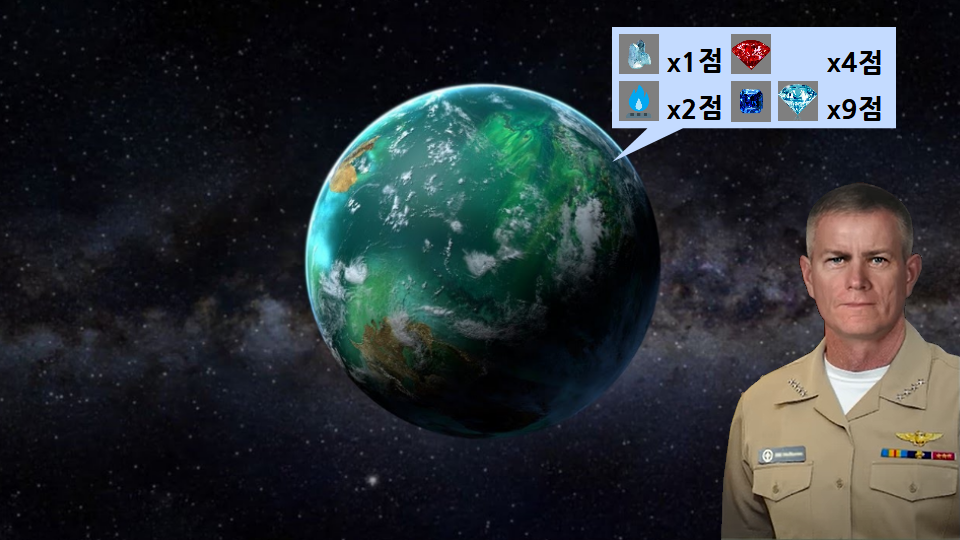
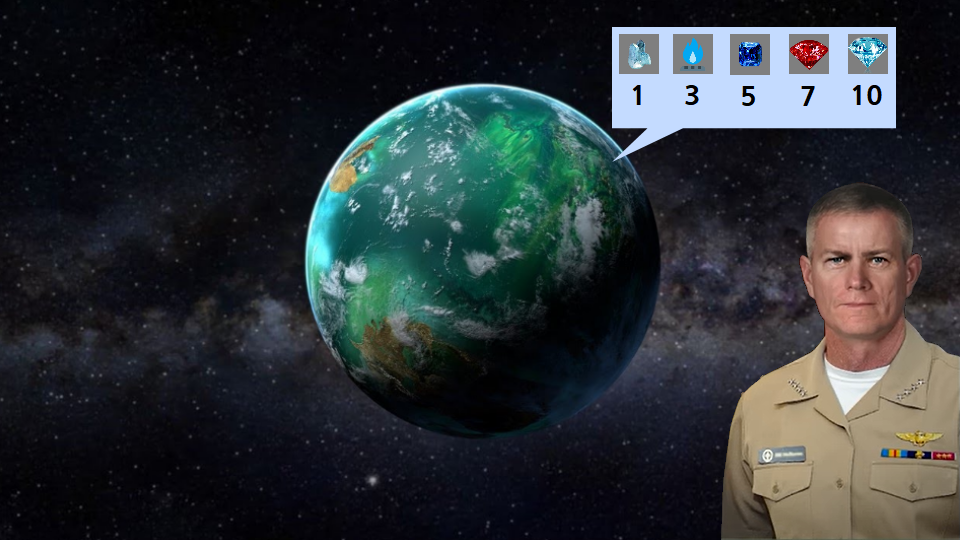
난이도별 승리 조건 추가, 게임 진행 방식 변경, 튜토리얼 스킵 추가

Changed region(s): [[0.625, 0.0593, 0.9375, 0.237]]

diff --git a/tutorial.js b/tutorial.js
@@ -16,11 +16,11 @@ $("#btn").click(function() {
         $("#text").append(tmp);
         $(".btn2").click(function() {
             if(difficulty == 1)
-            location.href="level1.html"
+            location.href="level1.html?level_info=1"
             else if(difficulty == 2)
-            location.href="level2.html"
+            location.href="level2.html?level_info=2"
             else
-            location.href="level3.html"
+            location.href="level3.html?level_info=3"
         });
         $("#btn").css("left","380px")
         $("#btn").text("필요합니다!")
@@ -55,22 +55,22 @@ $("#btn").click(function() {
         $("img").attr("src", "tutorial/960x540image6.png");
 
         if(difficulty == 1)
-            $("#textp").html("<br>목표는 자원수집이네. 20점을 넘기게! 점수는 자원 획득으로 얻을 수 있고 각 자원별로 점수가 다르다는 것을 참고하게!<br>")
+            $("#textp").html("<br>목표는 자원수집이네. 50점을 넘기게! 점수는 자원 획득으로 얻을 수 있고 각 자원별로 점수가 다르다는 것을 참고하게!<br>")
         else if(difficulty == 2)
-        $("#textp").html("<br>목표는 자원수집이네. 50점을 넘기게! 점수는 자원 획득으로 얻을 수 있고 각 자원별로 점수가 다르다는 것을 참고하게!<br>")
-        else
         $("#textp").html("<br>목표는 자원수집이네. 100점을 넘기게! 점수는 자원 획득으로 얻을 수 있고 각 자원별로 점수가 다르다는 것을 참고하게!<br>")
+        else
+        $("#textp").html("<br>목표는 자원수집이네. 200점을 넘기게! 점수는 자원 획득으로 얻을 수 있고 각 자원별로 점수가 다르다는 것을 참고하게!<br>")
            
         $("#buttonp").html("알겠습니다!")
     }
     else
     {
         if(difficulty == 1)
-        location.href="level1.html"
+        location.href="level1.html?level_info=1"
         else if(difficulty == 2)
-        location.href="level2.html"
+        location.href="level2.html?level_info=2"
         else
-        location.href="level3.html"
+        location.href="level3.html?level_info=3"
     }
 index = index + 1
 });

diff --git a/end.js b/end.js
@@ -11,17 +11,10 @@ if (localStorage.getItem('life') === '0') {
 
 /* game ver.commit 1.js에서 score를 받아서 print하는 함수*/
 
-let score1 = 0;
-let score2 = 0;
-let score3 = 0;
-if (localStorage.getItem('score1') != null) {
-  score1 = localStorage.getItem('score1');
+
+if (localStorage.getItem('score') != null) {
+  score = localStorage.getItem('score');
 }
-if (localStorage.getItem('score2') != null) {
-  score2 = localStorage.getItem('score2');
-}
-if (localStorage.getItem('score3') != null) {
-  score3 = localStorage.getItem('score3');
-}
-let total = parseInt(score1) + parseInt(score2) + parseInt(score3);
+
+let total = parseInt(score);
 $("#score").text(total);

diff --git a/start.js b/start.js
@@ -57,12 +57,15 @@ $(function(){
 
     $("#easy > a").on("click",function() {
         localStorage.setItem('difficulty',1);
+        localStorage.setItem('score',0)
     })
     $("#normal > a").on("click",function() {
         localStorage.setItem('difficulty',2);
+        localStorage.setItem('score',0)
     })
     $("#hard > a").on("click",function() {
         localStorage.setItem('difficulty',3);
+        localStorage.setItem('score',0)
     })
     $("body").css("background-image",background_IMg);
     $("#beforeStart").css("background-image",background_IMg);

diff --git a/level1.html b/level1.html
@@ -6,9 +6,6 @@
   <link rel="stylesheet" href="galaxy.css">
   <style> canvas { background: #0F0F0F; display: block; margin: 0 auto;} </style>
   <script src="https://code.jquery.com/jquery-3.6.0.min.js"></script>
-  
-
-
 </head>
 <body>
   <canvas id="myCanvas" width="600" height="500"></canvas>
@@ -94,7 +91,6 @@
   
   <div id="info-setting">
     esc키를 누르면 설정창이 열립니다.
-    <button id="next_stage" onclick="Neexxtt();">다음단계</button>
   </div>
   <!-------------------------------------------------->
 </body>

diff --git a/level2.html b/level2.html
@@ -91,7 +91,6 @@
   
   <div id="info-setting">
     esc키를 누르면 설정창이 열립니다.
-    <button id="next_stage" onclick="Neexxtt();">다음단계</button>
   </div>
   <!-------------------------------------------------->
 </body>

diff --git a/level3.html b/level3.html
@@ -91,7 +91,6 @@
   
   <div id="info-setting">
     esc키를 누르면 설정창이 열립니다.
-    <button id="next_stage" onclick="Neexxtt();">다음단계</button>
   </div>
   <!-------------------------------------------------->
 </body>
